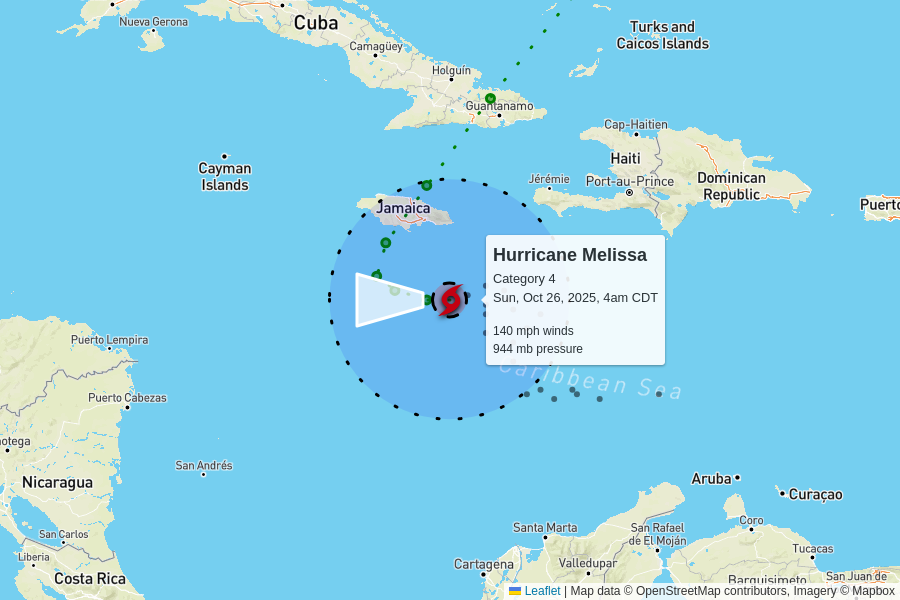
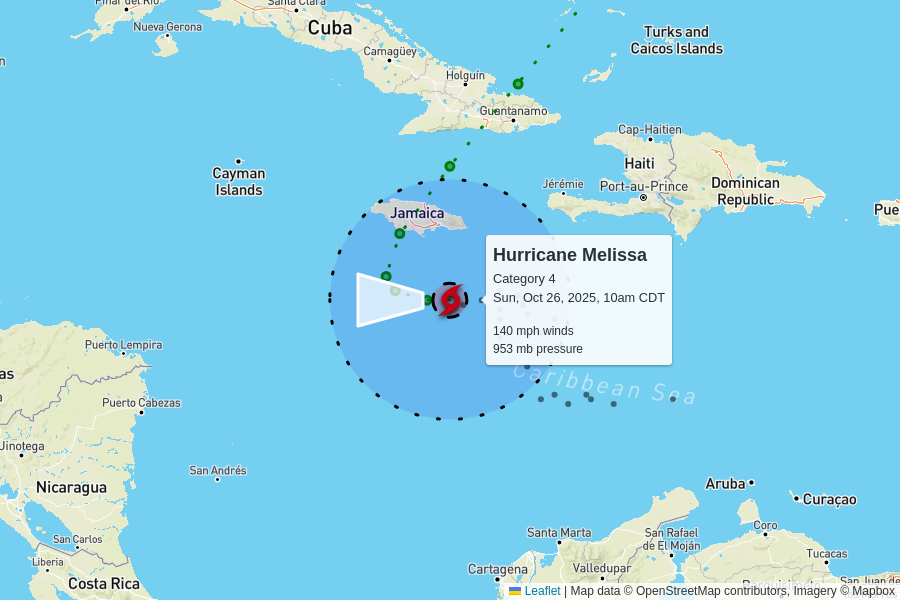
automatic update

diff --git a/docs/index.html b/docs/index.html
@@ -102,7 +102,7 @@
         <td colspan="6" class="storm category-4" >
           <h2>
             Hurricane Melissa - Category 4
-            <p class="updated">last updated <span data-time>2025-10-26T09:00:00.000Z</span></p>
+            <p class="updated">last updated <span data-time>2025-10-26T15:00:00.000Z</span></p>
           </h2>
         </td>
       </tr>
@@ -117,10 +117,10 @@
       </tr>
       <tr>
         <td class="spacer"></td>
-        <td>140 mph<br>+25 mph since last update</td>
-        <td>944 mb<br>-23 mb since last update</td>
+        <td>140 mph<br>0 mph since last update</td>
+        <td>953 mb<br>+9 mb since last update</td>
         <td>
-          5 mph to the west
+          3 mph to the west
           <br/>
           <span style="display: inline-block; font-size: 1.5em; transform: rotate(270deg);">↑</span>
         </td>
